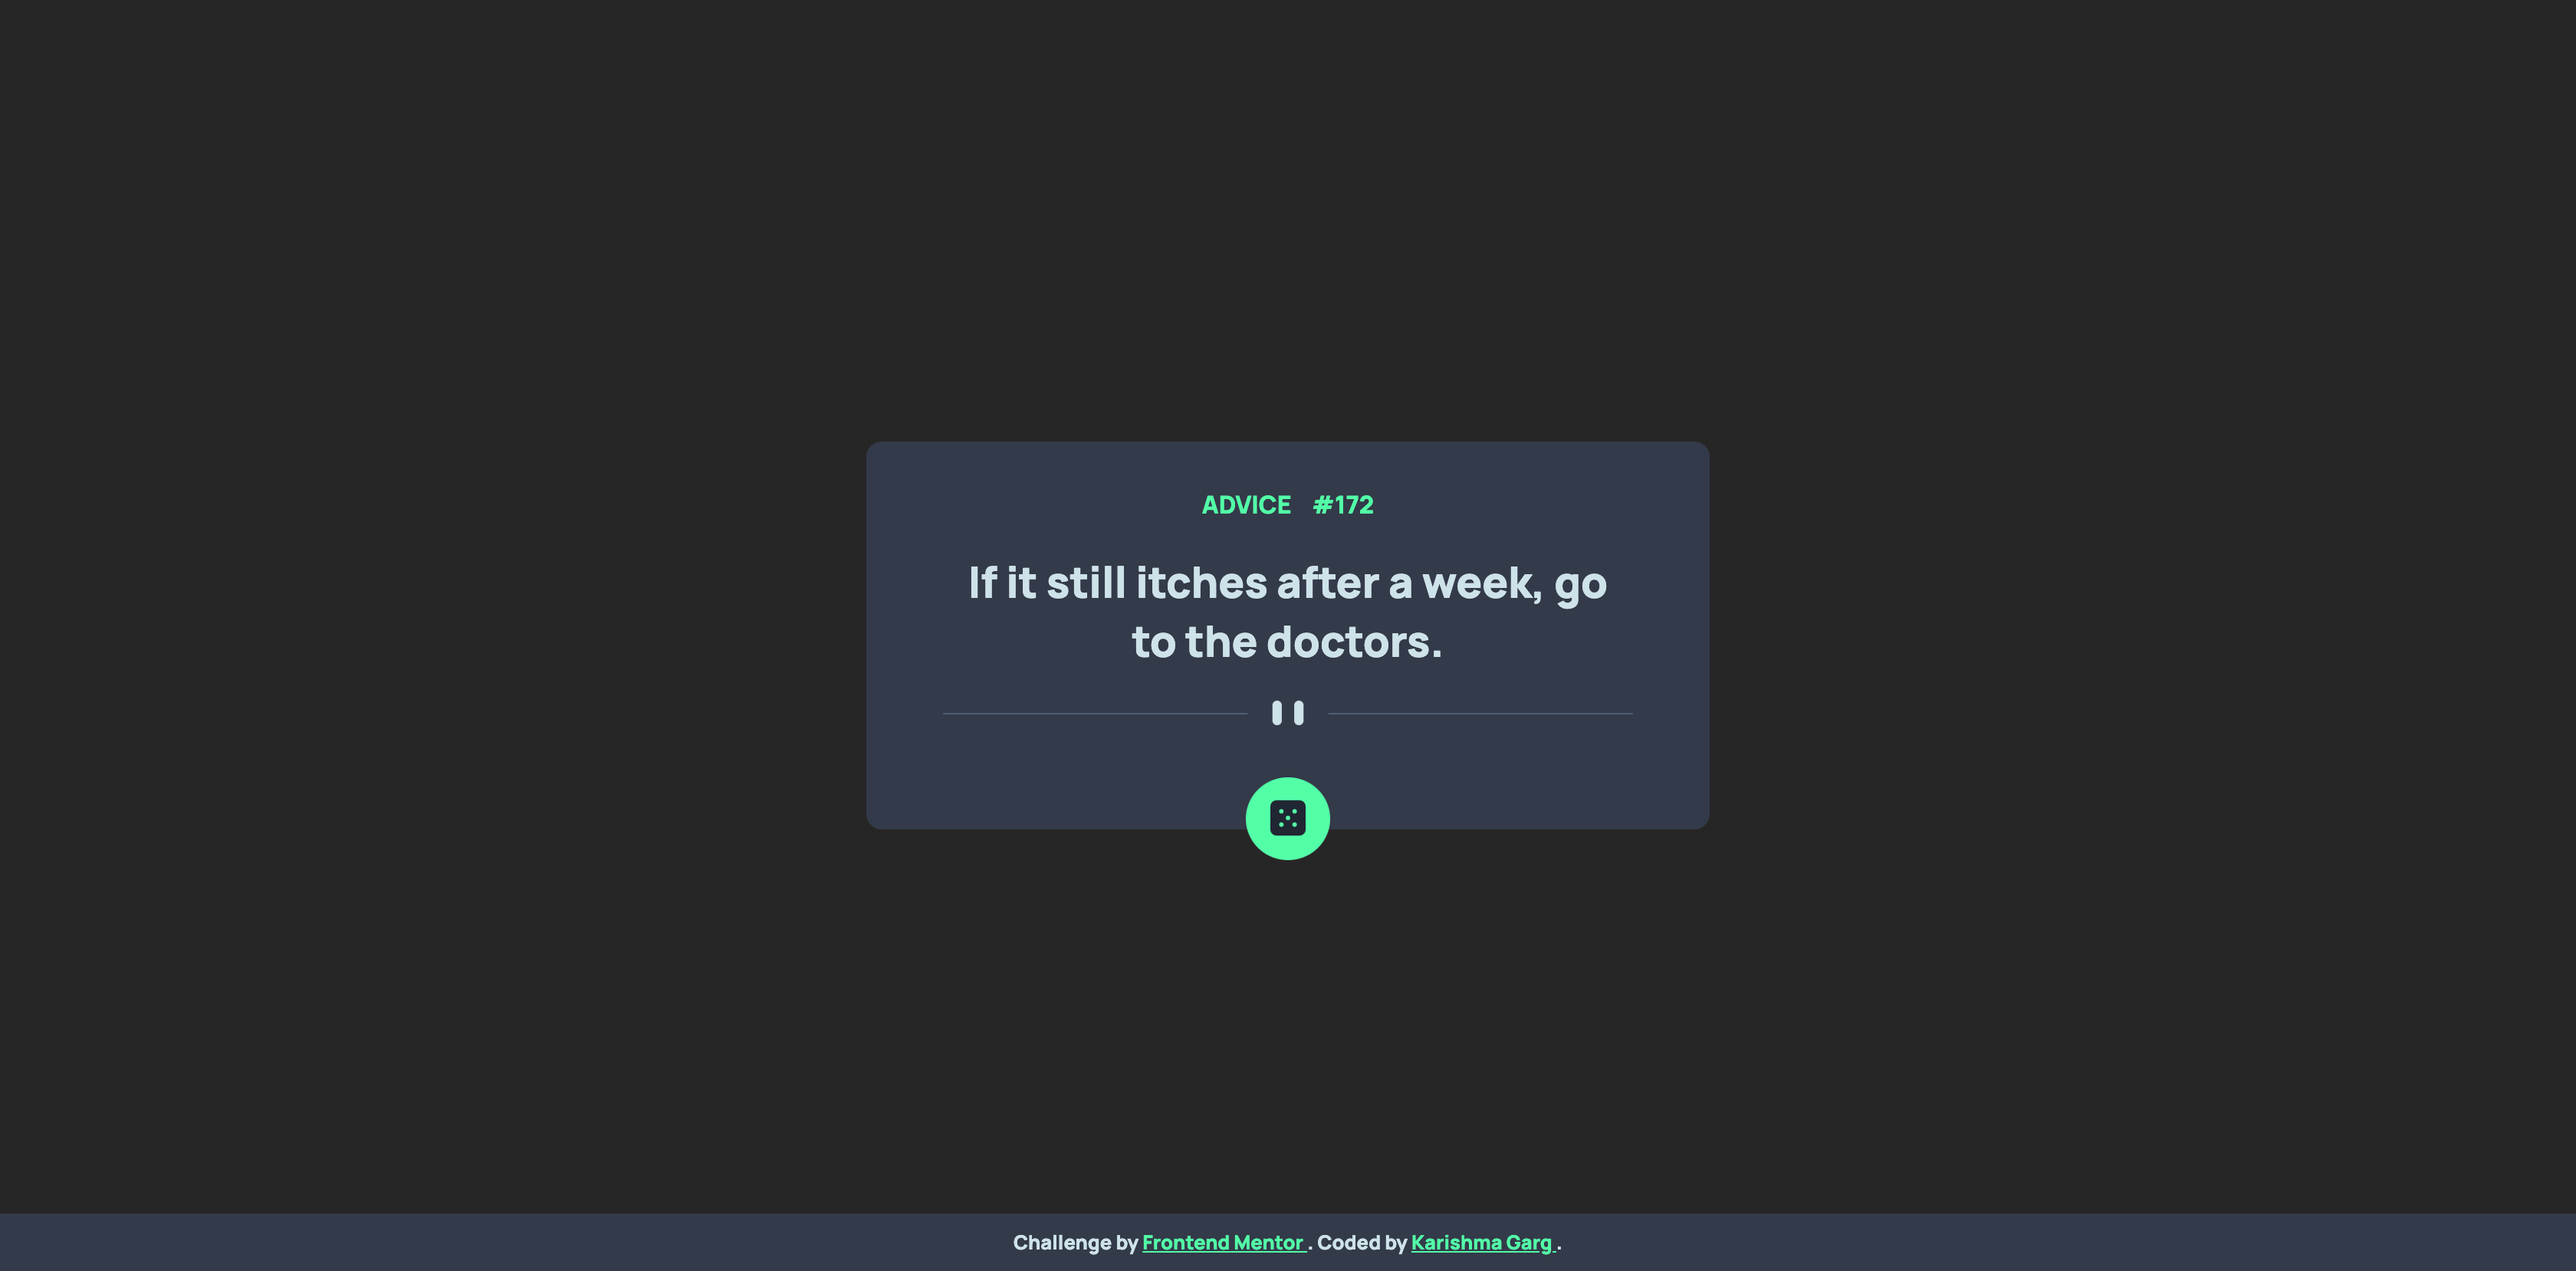
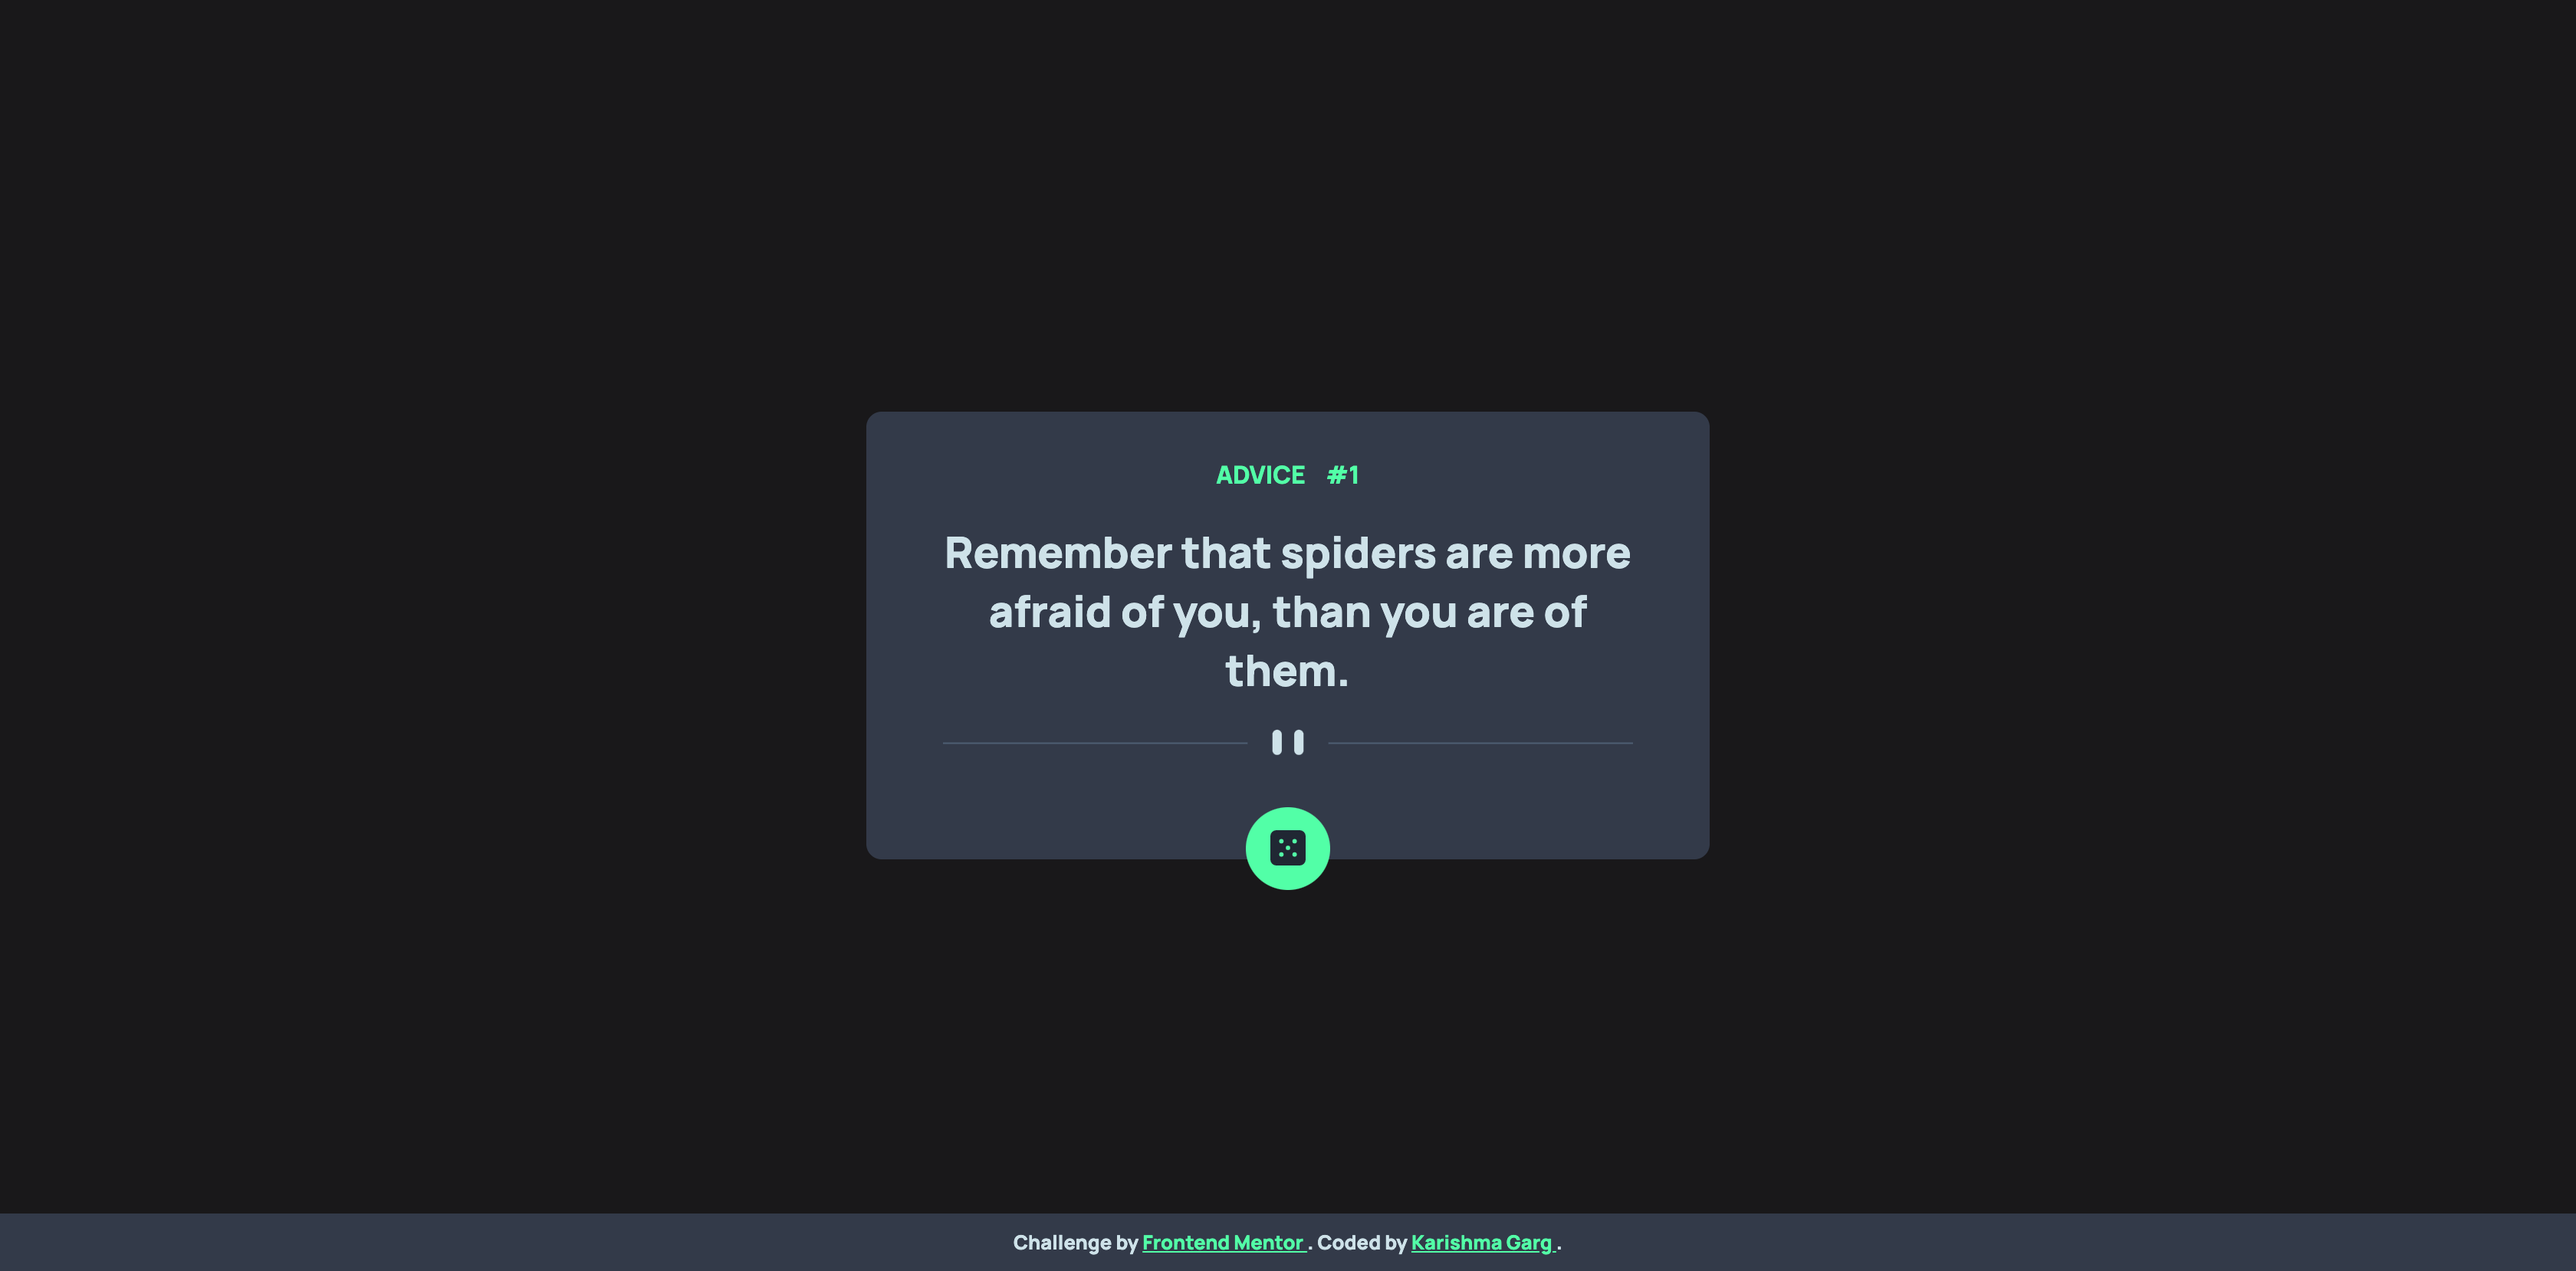
Updated Style and screenshot

Changed region(s): [[0.3438, 0.3076, 0.6562, 0.5844], [0.3125, 0.6152, 0.6875, 0.7075]]

diff --git a/style.css b/style.css
@@ -31,7 +31,7 @@ body {
   grid-template-rows: auto 0px;
 }
 body{
-    background-color: rgb(39, 38, 38);
+    background-color: rgba(13, 12, 14, 0.95);
 }
 
 /* Main */
